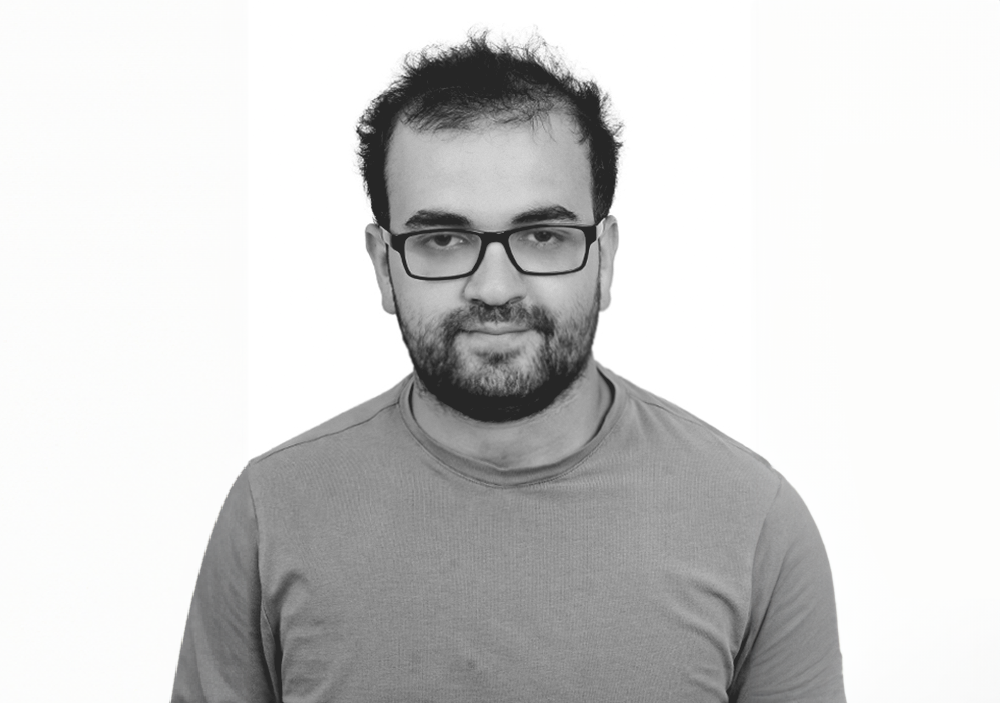
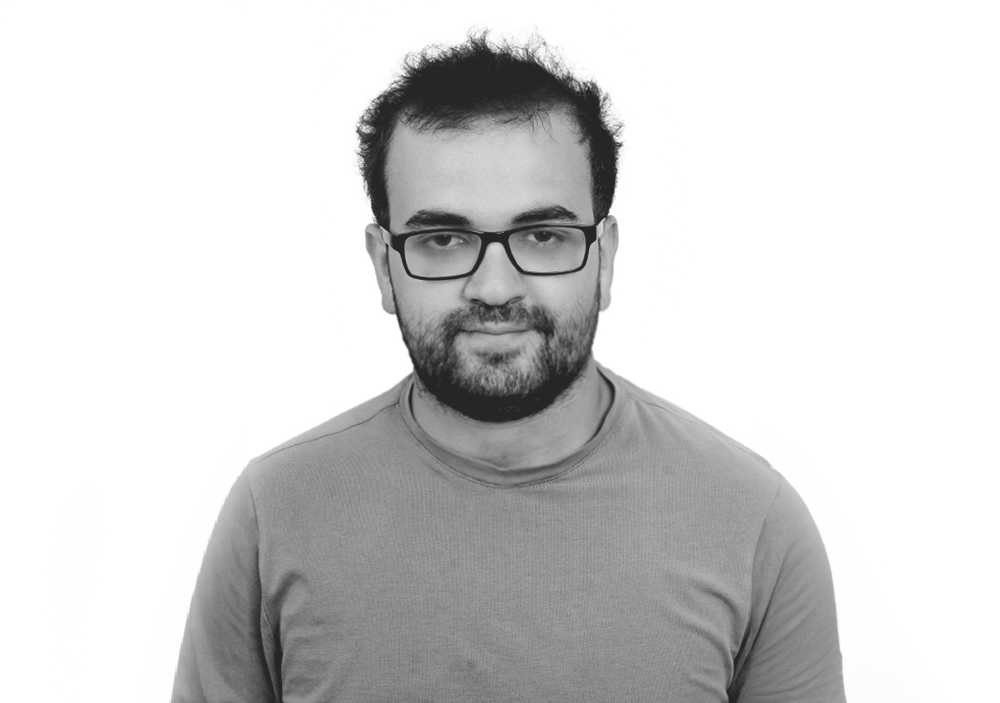
change photo profile

diff --git a/src/mainContent.tsx b/src/mainContent.tsx
@@ -56,7 +56,7 @@ const MainContent = () => {
                 </div>
               </div>
               <div className="w-full lg:w-4/12 mb-12 lg:mb-0">
-                <img src={Profile} alt="profile-img" className="object-cover h-80" style={{borderRadius: "100%"}}/>
+                <img src={Profile} alt="profile-img" className="object-cover lg:w-4/12:h-80 h-auto" style={{borderRadius: "100%"}}/>
               </div>
             </div>
             <div className="flex items-center my-12 flex-col sm:flex-row">
